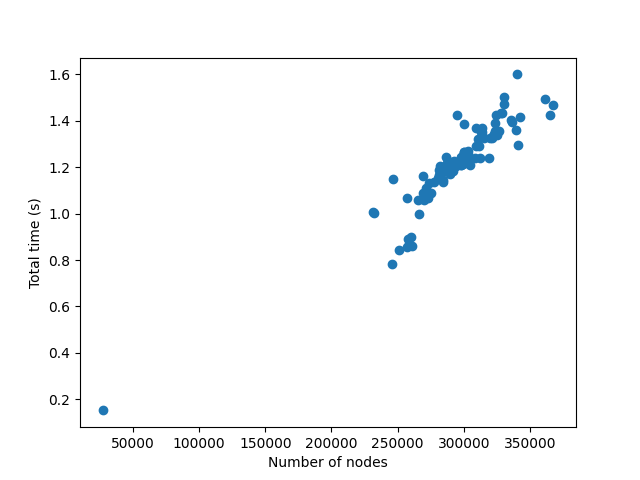
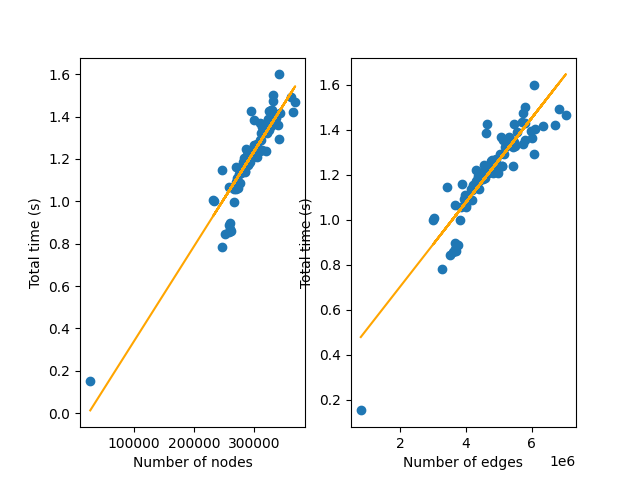
cleanup

diff --git a/read.py b/read.py
@@ -13,33 +13,31 @@ def csv_to_excel(input_name, output_name):
     convert_frame(input_name).to_excel(output_name)
 
 # Plot a given csv file to an output file
-def plot_num_nodes(input_name, output_name):
+def plot_points(input_name, output_name):
 
     #Fetch the dataframe
     dataframe = pd.read_csv(input_name)
-    figure, axes = plt.subplots()
-    axes.scatter(dataframe["num_nodes"], dataframe["total_event"])
-    axes.scatter(dataframe["num_nodes"], dataframe["total_event"])
+    figure, axes = plt.subplots(1,2)
 
-    axes.set_xlabel("Number of nodes")
-    axes.set_ylabel("Total time (s)")
+    # Declare axis labels
+    axes[0].set_xlabel("Number of nodes")
+    axes[0].set_ylabel("Total time (s)")
+    # Plot the total number of nodes (x) vs the total events (y)
+    axes[0].scatter(dataframe["num_nodes"], dataframe["total_event"])
+    # Calculate and plot the line of best fit
+    line_of_best_fit = stats.linregress(dataframe["num_nodes"], dataframe["total_event"])
+    axes[0].plot(dataframe["num_nodes"], line_of_best_fit.slope * dataframe["num_nodes"] + line_of_best_fit.intercept,c='orange')
 
-    axes.plot()
-    plt.savefig(output_name)
+    # Declare axis labels
+    axes[1].set_xlabel("Number of edges")
+    axes[1].set_ylabel("Total time (s)")
+    # Plot the total number of edges (x) vs the total events (y)
+    axes[1].scatter(dataframe["7_num_edges_bg"], dataframe["total_event"])
+    # Calculate and plot the line of best fit
+    line_of_best_fit = stats.linregress(dataframe["7_num_edges_bg"], dataframe["total_event"])
+    axes[1].plot(dataframe["7_num_edges_bg"], line_of_best_fit.slope * dataframe["7_num_edges_bg"] + line_of_best_fit.intercept,c='orange')
 
-# Plot a given csv file to an output file
-def plot_num_edges(input_name, output_name):
-
-    #Fetch the dataframe
-    dataframe = pd.read_csv(input_name)
-    figure, axes = plt.subplots()
-    axes.scatter(dataframe["num_edges"], dataframe["total_event"])
-    axes.scatter(dataframe["num_edges"], dataframe["total_event"])
-
-    axes.set_xlabel("Number of nodes")
-    axes.set_ylabel("Total time (s)")
-
-    axes.plot()
+    # Plot and save the figure
     plt.savefig(output_name)
 
 
@@ -72,4 +70,5 @@ def convert_frame(input_name):
 
 #print_from_csv("csv/results_final.csv")
 #csv_to_excel("csv/results_final.csv", "excel/results_final.xlsx")
-plot_csv("csv/results_final.csv", "png/results_final")
+plot_points("csv/results_final.csv", "png/results_final")
+
